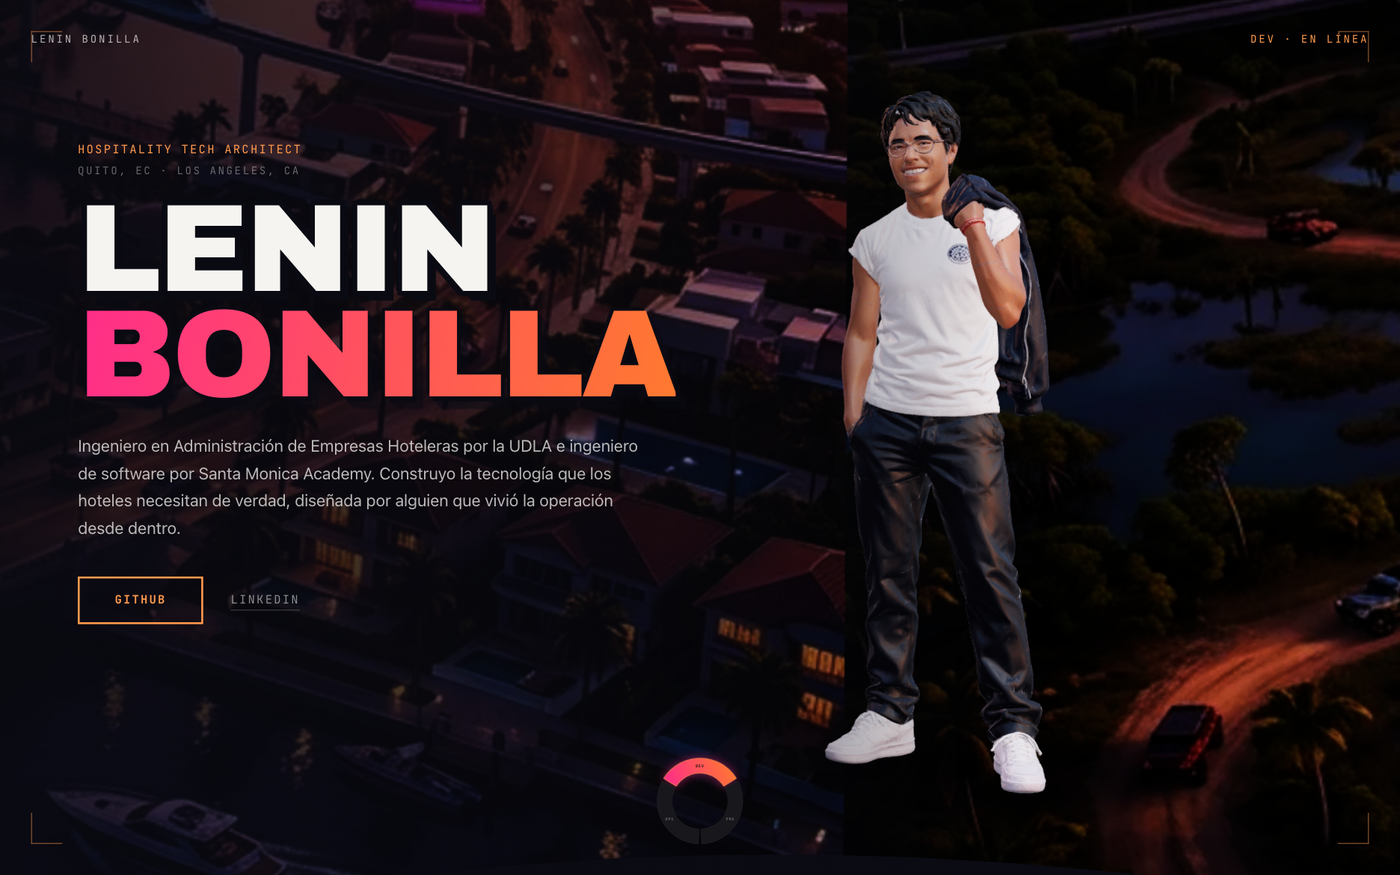
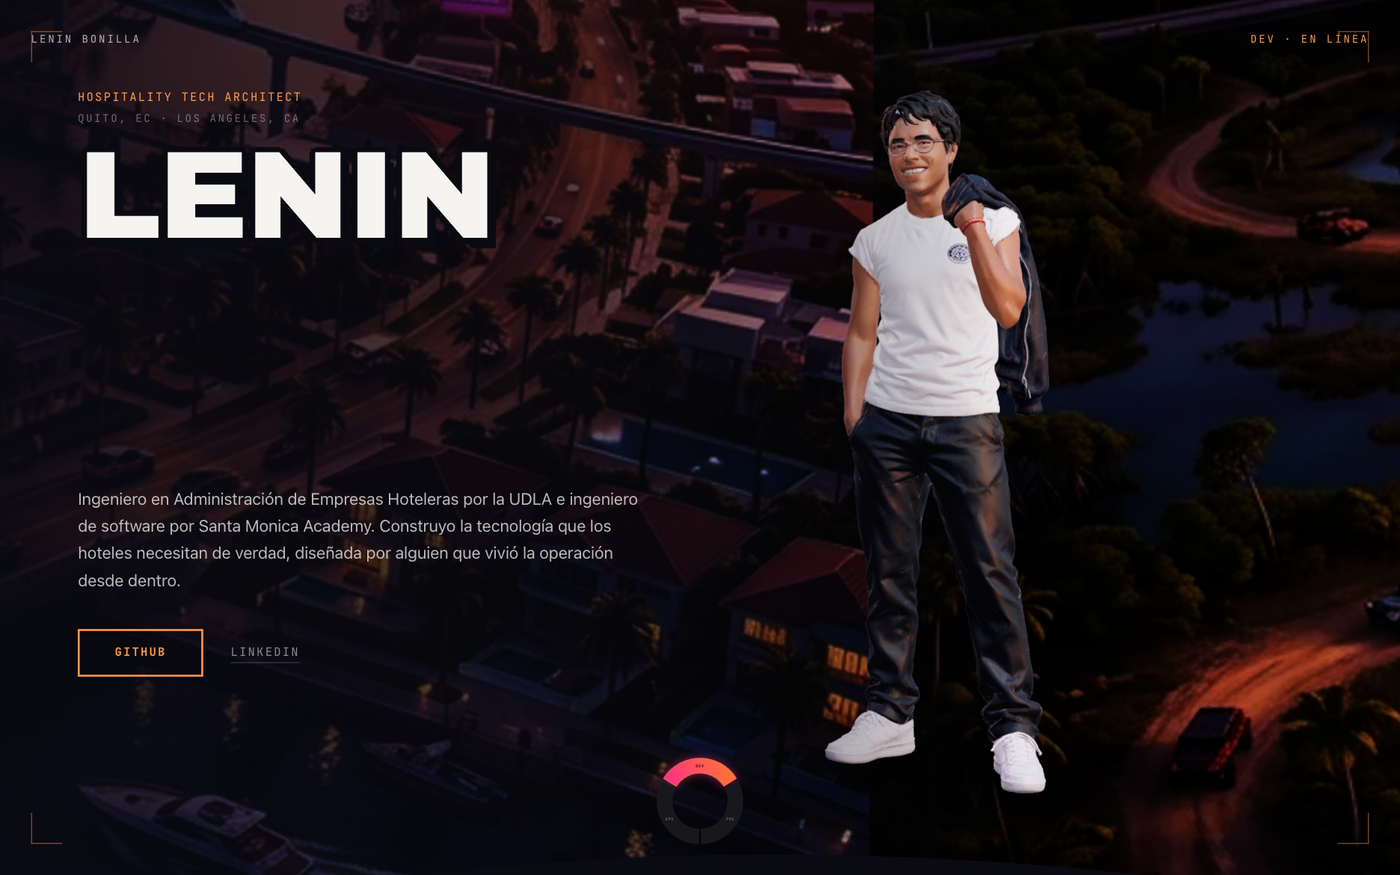
Nombre artístico en la cinemática, y BONILLA vuelve a verse
NOMBRE
FLEREMIASFLEMIN en grande sobre el hueco que deja el vídeo, con "o dime
solo Flemin" debajo. Entra letra a letra con `animation-delay` en CSS y no
con GSAP: aquí no hay nada que sincronizar, y un retardo por letra no
depende del ciclo de render — que es lo que hizo que el rótulo de abajo
tardara diez segundos en el primer intento. La última letra entra antes
del segundo y medio, así que cabe de sobra en los cinco del vídeo.

BONILLA
`background-clip: text` NO atraviesa descendientes con `transform`, y al
animar letra a letra cada una es un inline-block transformado: el
degradado del padre no las alcanzaba y la palabra desaparecía en negro.
Ahora cada letra lleva un color sólido interpolado según su posición —se
lee igual como degradado a lo largo de la palabra, y se anima sin peleas.
De paso responde a lo pedido: el color sale de las variables de la
faceta, así que cambia con la sección.

Y `whitespace-nowrap` en cada renglón: con las letras en inline-block el
navegador rompía la línea entre ellas y "BONILLA" perdía la A en un
renglón aparte.

diff --git a/src/components/TituloVivo.tsx b/src/components/TituloVivo.tsx
@@ -54,9 +54,14 @@ export type Entrada = keyof typeof ENTRADAS
  * Van bajo `aria-hidden` y el texto real viaja en el `aria-label` del `<h2>`:
  * partido en letras, un lector de pantalla deletrearía el titular.
  */
-function Letras({ texto }: { texto: string }) {
+function Letras({ texto, degradado = false }: { texto: string; degradado?: boolean }) {
+  const total = Math.max(1, texto.length - 1)
   return (
-    <span className="block">
+    // `whitespace-nowrap`: con cada letra en `inline-block`, el navegador puede
+    // romper la línea ENTRE letras, y "BONILLA" perdía la A en un renglón
+    // aparte. La palabra tiene que romperse donde diga el diseño, no donde
+    // quepa una letra suelta.
+    <span className="block whitespace-nowrap">
       {texto.split('').map((ch, i) => (
         <span
           key={`${ch}-${i}`}
@@ -64,7 +69,26 @@ function Letras({ texto }: { texto: string }) {
           // Los espacios en un `inline-block` colapsan y las palabras se pegan.
           style={ch === ' ' ? { width: '0.26em' } : undefined}
         >
-          <span className="titulo-letra inline-block">{ch === ' ' ? ' ' : ch}</span>
+          <span
+            className="titulo-letra inline-block"
+            /*
+             * El degradado se hace letra a letra, no con `background-clip`.
+             *
+             * `background-clip: text` NO atraviesa descendientes con
+             * `transform`, y al animar letra a letra cada una es un
+             * `inline-block` transformado: el degradado del padre no las alcanza
+             * y la palabra desaparece en negro. Dando a cada letra un color
+             * sólido interpolado según su posición se ve igual —el ojo lee el
+             * degradado a lo largo de la palabra— y además se anima sin peleas.
+             */
+            style={
+              degradado
+                ? { color: `color-mix(in oklab, var(--hasta) ${Math.round((i / total) * 100)}%, var(--desde))` }
+                : undefined
+            }
+          >
+            {ch === ' ' ? ' ' : ch}
+          </span>
         </span>
       ))}
     </span>
@@ -161,24 +185,8 @@ export function TituloVivo({
             key={k}
             className="block"
             aria-hidden="true"
-            style={
-              conGradiente
-                ? {
-                    backgroundImage: 'linear-gradient(100deg, var(--desde), var(--hasta))',
-                    WebkitBackgroundClip: 'text',
-                    backgroundClip: 'text',
-                    color: 'transparent',
-                    // `drop-shadow` y no `text-shadow`: con el relleno
-                    // transparente que exige el degradado, la sombra de texto se
-                    // pinta DENTRO de las letras y la palabra desaparece.
-                    filter:
-                      'drop-shadow(0.035em 0.04em 0 #0A0A12) drop-shadow(-0.02em -0.02em 0 #0A0A12)',
-                    textShadow: 'none',
-                  }
-                : undefined
-            }
           >
-            <Letras texto={linea} />
+            <Letras texto={linea} degradado={conGradiente} />
           </span>
         )
       })}

diff --git a/src/components/Cinematica.tsx b/src/components/Cinematica.tsx
@@ -9,6 +9,9 @@ const LETRA = 42
 /** Lo que se sostiene la pantalla una vez escrita y con todo cargado. */
 const SOSTIENE = 900
 
+/** El nombre artístico, partido para animarlo letra a letra. */
+const NOMBRE = 'FLEREMIASFLEMIN'
+
 const VIDEO = `${(import.meta.env.BASE_URL ?? '/').replace(/\/$/, '')}/video/intro.mp4`
 
 /**
@@ -137,6 +140,43 @@ export function Cinematica() {
         playsInline
         aria-hidden="true"
       />
+
+      {/*
+        El nombre artístico, en el hueco que deja el vídeo.
+
+        Entra letra a letra con retardo escalonado en CSS y no con GSAP: aquí no
+        hay nada que sincronizar con el scroll ni con la carga, y un `animation-delay`
+        por letra no depende del ciclo de render — que es justo lo que hizo que
+        el rótulo de abajo tardara diez segundos en el primer intento.
+
+        Cabe de sobra en los cinco segundos del vídeo: la última letra entra
+        antes del segundo y medio.
+      */}
+      <div className="absolute inset-y-0 left-6 z-10 flex flex-col justify-center md:left-12 lg:left-20">
+        <h1
+          className="rotulo font-display uppercase leading-[0.82]"
+          style={{ fontSize: 'clamp(2.4rem, 7vw, 6.5rem)' }}
+          aria-label="Fleremiasflemin"
+        >
+          {NOMBRE.split('').map((ch, i) => (
+            <span
+              key={i}
+              aria-hidden="true"
+              className="letra-intro inline-block"
+              style={{ animationDelay: `${400 + i * 55}ms` }}
+            >
+              {ch}
+            </span>
+          ))}
+        </h1>
+
+        <p
+          className="letra-intro mt-4 max-w-md font-mono text-[0.78rem] uppercase tracking-[0.24em] md:text-sm"
+          style={{ animationDelay: `${400 + NOMBRE.length * 55 + 260}ms`, color: 'var(--tinta, #FF9A4D)' }}
+        >
+          O dime solo Flemin
+        </p>
+      </div>
 
       <div className="absolute bottom-16 left-6 z-10 md:bottom-20 md:left-12 lg:left-20">
         {LUGARES.map((texto, i) => (

diff --git a/src/index.css b/src/index.css
@@ -157,3 +157,32 @@
     video { animation: none !important; opacity: 0.85 !important }
   }
 }
+
+@layer components {
+  /*
+   * Entrada del nombre de la cinemática, letra a letra.
+   *
+   * Sube desde abajo con un poco de escala y de inclinación. El `both` mantiene
+   * el estado inicial antes de que arranque su retardo: sin él, todas las
+   * letras se ven un instante antes de empezar a animarse, y el escalonado se
+   * pierde.
+   */
+  .letra-intro {
+    animation: entraLetra 0.72s cubic-bezier(0.16, 1, 0.3, 1) both;
+  }
+
+  @keyframes entraLetra {
+    from {
+      opacity: 0;
+      transform: translateY(0.5em) scale(0.86) rotate(-4deg);
+    }
+    to {
+      opacity: 1;
+      transform: none;
+    }
+  }
+
+  @media (prefers-reduced-motion: reduce) {
+    .letra-intro { animation: none }
+  }
+}
